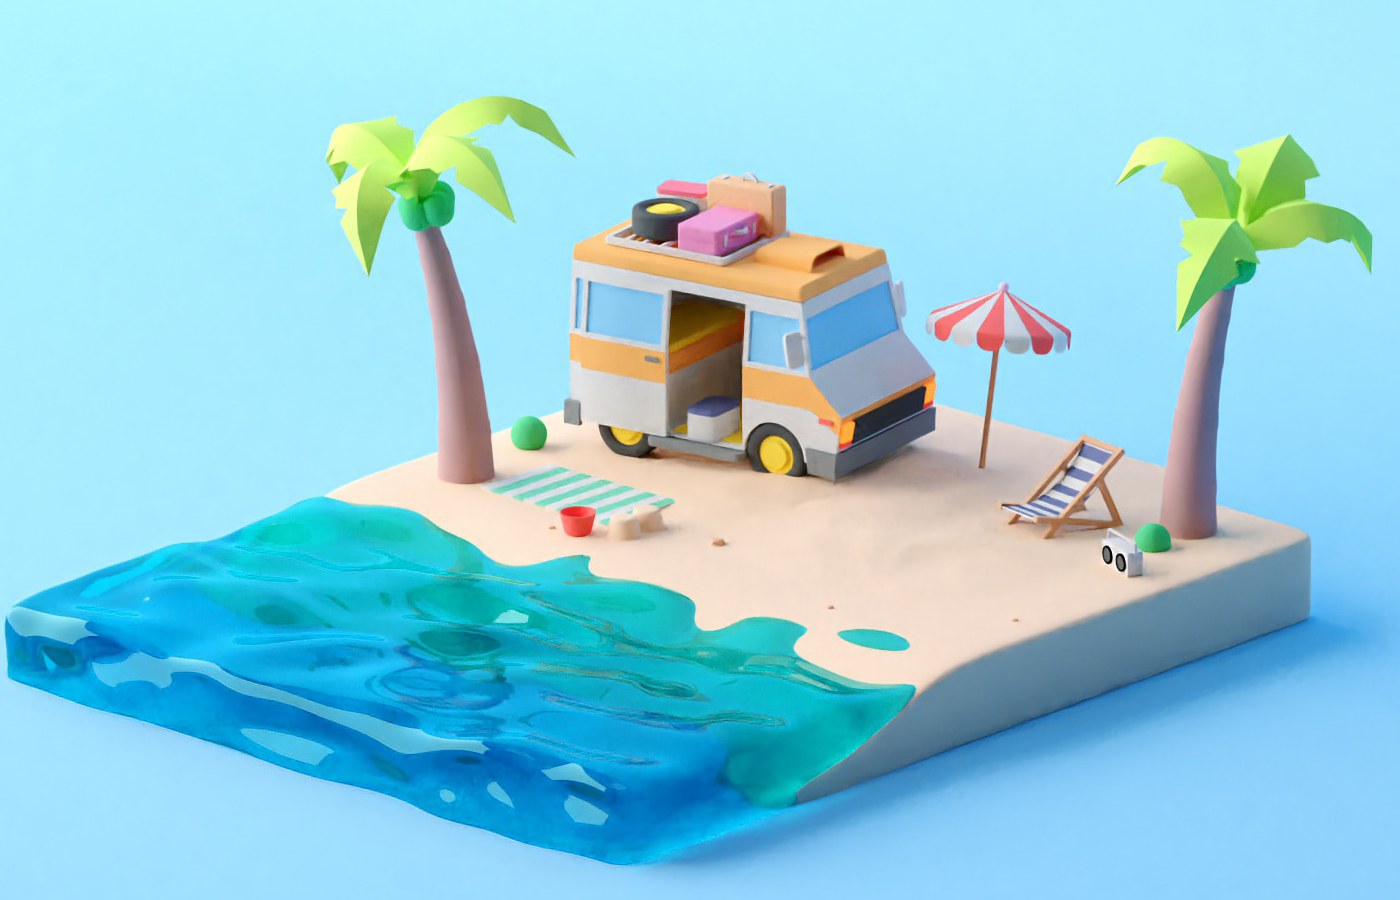
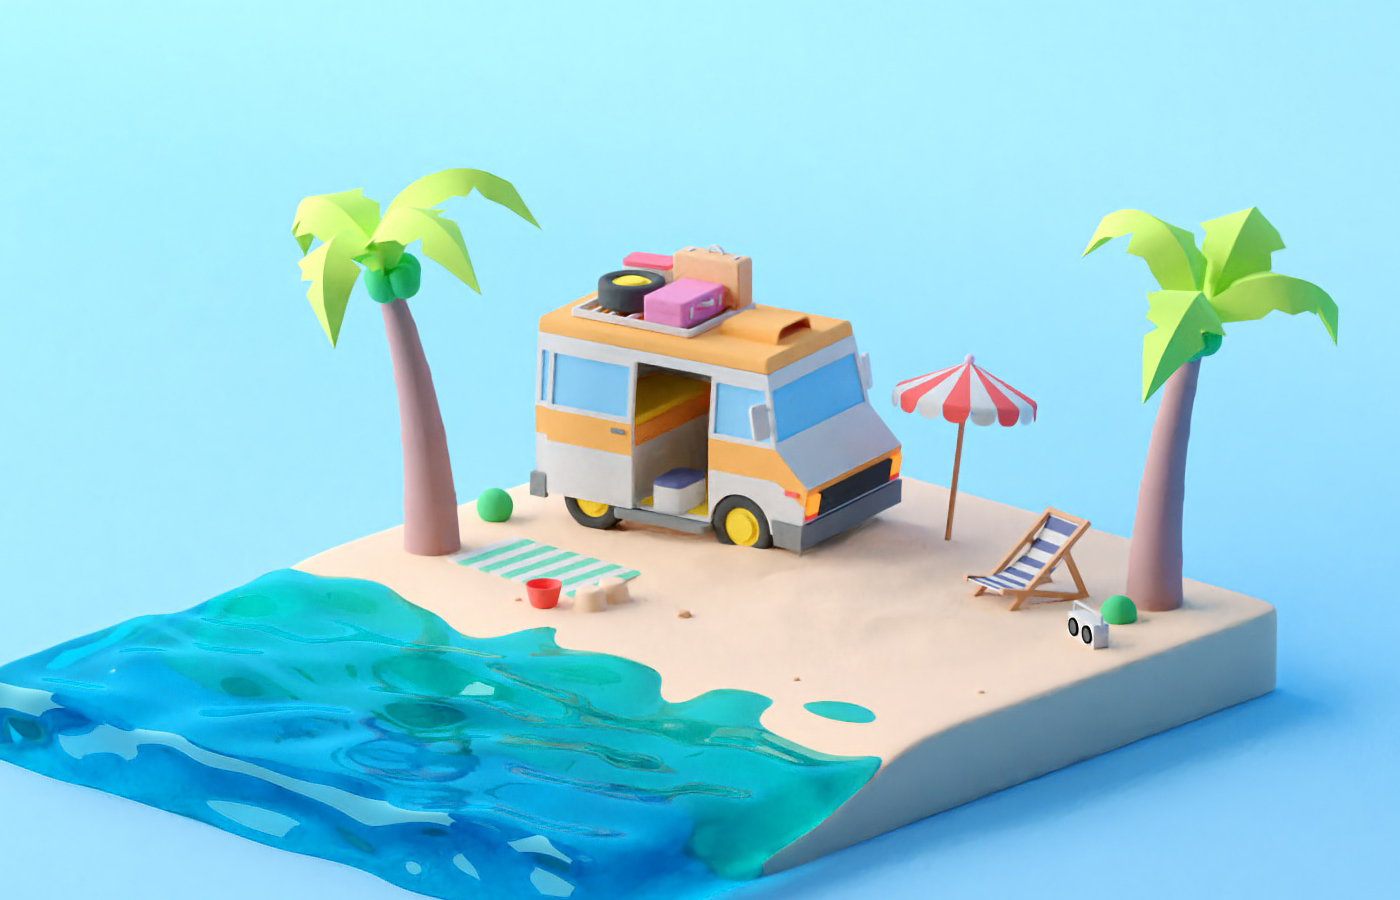
メリクリ追加

diff --git a/index.html b/index.html
@@ -7,84 +7,100 @@
     <title>E2 Advent Calendar 2020</title>
     <style>
         body {
-            text-align: center;
-            padding: 1vh 0;
-            background: #f3f3f3;
+        	padding: 1vh 0;
+        	background: #f3f3f3;
+        	text-align: center;
         }
 
         #app,
         canvas {
-            max-width: 1400px;
-            max-height: 900px;
-            width: 100% !important;
-            height: auto !important;
-            margin: auto;
+        	position: relative;
+        	z-index: 2;
+        	margin: auto;
+        	max-width: 1400px;
+        	max-height: 900px;
+        	width: 100% !important;
+        	height: auto !important;
         }
 
         #app {
-            background: url(./img/beach.jpg) no-repeat center center;
-            background-size: contain;
+        	background: url(./img/christmas.jpg) no-repeat center center;
+        	background-size: contain;
+            overflow: hidden;
+        }
+
+        #summer {
+        	position: absolute;
+        	top: 0;
+        	z-index: 1;
+        	width: 100%;
+        	height: 100%;
+        	background: url(./img/beach.jpg) no-repeat center center;
+        	background-size: contain;
+            pointer-events: none;
         }
 
         *:focus {
-            outline: none;
+        	outline: none;
         }
 
         .btn {
-            position: relative;
-            width: 160px;
-            border: none;
-            border-radius: 40px;
-            cursor: pointer;
-            transition: all 300ms;
-            margin: 0 2vw 1vh;
+        	position: relative;
+        	margin: 0 2vw 1vh;
+        	width: 160px;
+        	border: none;
+        	border-radius: 40px;
+        	cursor: pointer;
+        	transition: all 300ms;
         }
 
         .btn span {
-            display: block;
-            padding: 3px 0;
-            width: 100%;
-            height: 100%;
-            color: #333;
-            text-align: center;
-            font-size: .9rem;
+        	display: block;
+        	padding: 3px 0;
+        	width: 100%;
+        	height: 100%;
+        	color: #333;
+        	text-align: center;
+        	font-size: .9rem;
         }
 
         .btn span:hover {
-            color: #666;
+        	color: #666;
         }
 
         .btn::before {
-            position: absolute;
-            top: 0;
-            left: 0;
-            z-index: -1;
-            width: 100%;
-            height: 100%;
-            border-radius: 40px;
-            background-color: #f7f7f7;
-            box-shadow: 5px 5px 5px rgba(46, 38, 36, 0.1), -5px -5px 5px #fff;
-            content: "";
-            transition: all 300ms;
+        	position: absolute;
+        	top: 0;
+        	left: 0;
+        	z-index: -1;
+        	width: 100%;
+        	height: 100%;
+        	border-radius: 40px;
+        	background-color: #f7f7f7;
+        	box-shadow: 5px 5px 5px rgba(46, 38, 36, .1), -5px -5px 5px #fff;
+        	content: "";
+        	transition: all 300ms;
         }
 
         .btn:hover {
-            box-shadow: 1px 1px 1px rgba(46, 38, 36, 0.1), -1px -1px 1px #fff;
+        	box-shadow: 1px 1px 1px rgba(46, 38, 36, .1), -1px -1px 1px #fff;
         }
 
         .btn:hover::before {
-            opacity: 0.5;
+        	opacity: .5;
         }
 
         .btn:active {
-            box-shadow: inset 5px 5px 5px rgba(46, 38, 36, 0.1), inset -5px -5px 5px #fff;
+        	box-shadow: inset 5px 5px 5px rgba(46, 38, 36, .1), inset -5px -5px 5px #fff;
         }
-
 
         .btn:active::before {
-            opacity: 0;
+        	opacity: 0;
         }
-
+        .btn.mery {
+        	width: 30px;
+            margin: 0 0 1vh;
+        }
 
     </style>
 </head>
@@ -92,9 +108,10 @@
 <body>
     <div class="nav">
         <button id="play" class="btn"><span>左右に動く</span></button>
+        <button id="merry" class="btn mery"><span>★</span></button>
         <button id="pause" class="btn"><span>その場で回る</span></button>
     </div>
-    <main id="app"></main>
+    <main id="app"><div id="summer"></div></main>
     <script src="https://cdnjs.cloudflare.com/ajax/libs/pixi.js/5.2.5/pixi.min.js"></script>
     <script src="https://cdnjs.cloudflare.com/ajax/libs/gsap/3.5.1/gsap.min.js"></script>
     <script src="https://unpkg.com/gsap@3/dist/PixiPlugin.min.js"></script>
@@ -127,12 +144,19 @@
                 frames.push(PIXI.Texture.from(`nezu${val}`));
             }
             const nezumi = new PIXI.AnimatedSprite(frames);
-            nezumi.x = app.screen.width / 2;
-            nezumi.y = app.screen.height / 1.9;
+            nezumi.x = app.screen.width / 2.2;
+            nezumi.y = app.screen.height / 1.7;
             nezumi.anchor.set(0.5);
             nezumi.animationSpeed = .3;
             nezumi.play();
             nezumiContainer.addChild(nezumi);
+        }
+        function merryChristmas() {
+            gsap.to(
+                    '#summer',
+                    1,
+                    { scale:  1.2, opacity: 0}
+                );
         }
 
         const tween = gsap.to(nezumiContainer, 1, {
@@ -145,6 +169,7 @@
 
         document.querySelector("#play").onclick = () => tween.play();
         document.querySelector("#pause").onclick = () => tween.pause();
+        document.querySelector("#merry").onclick = () => merryChristmas();
     </script>
 </body>
 
